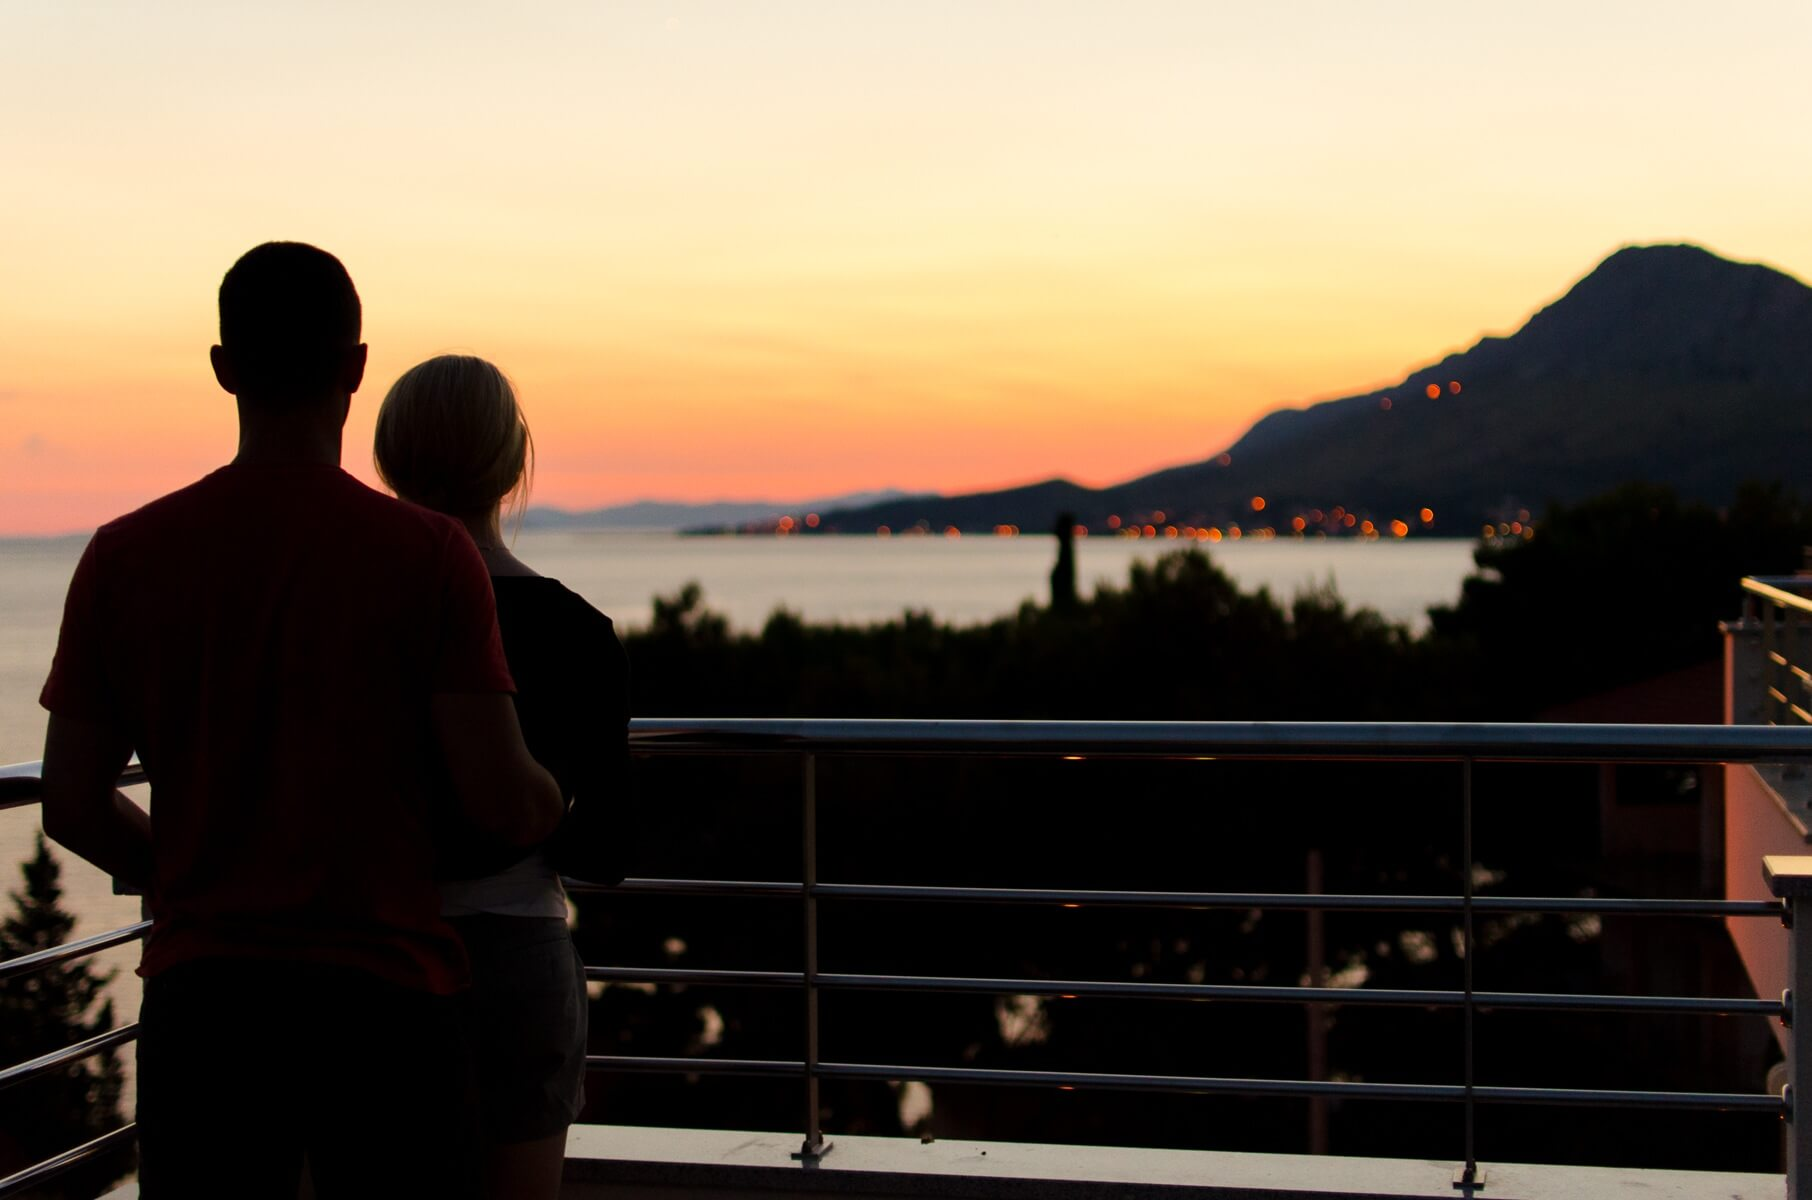
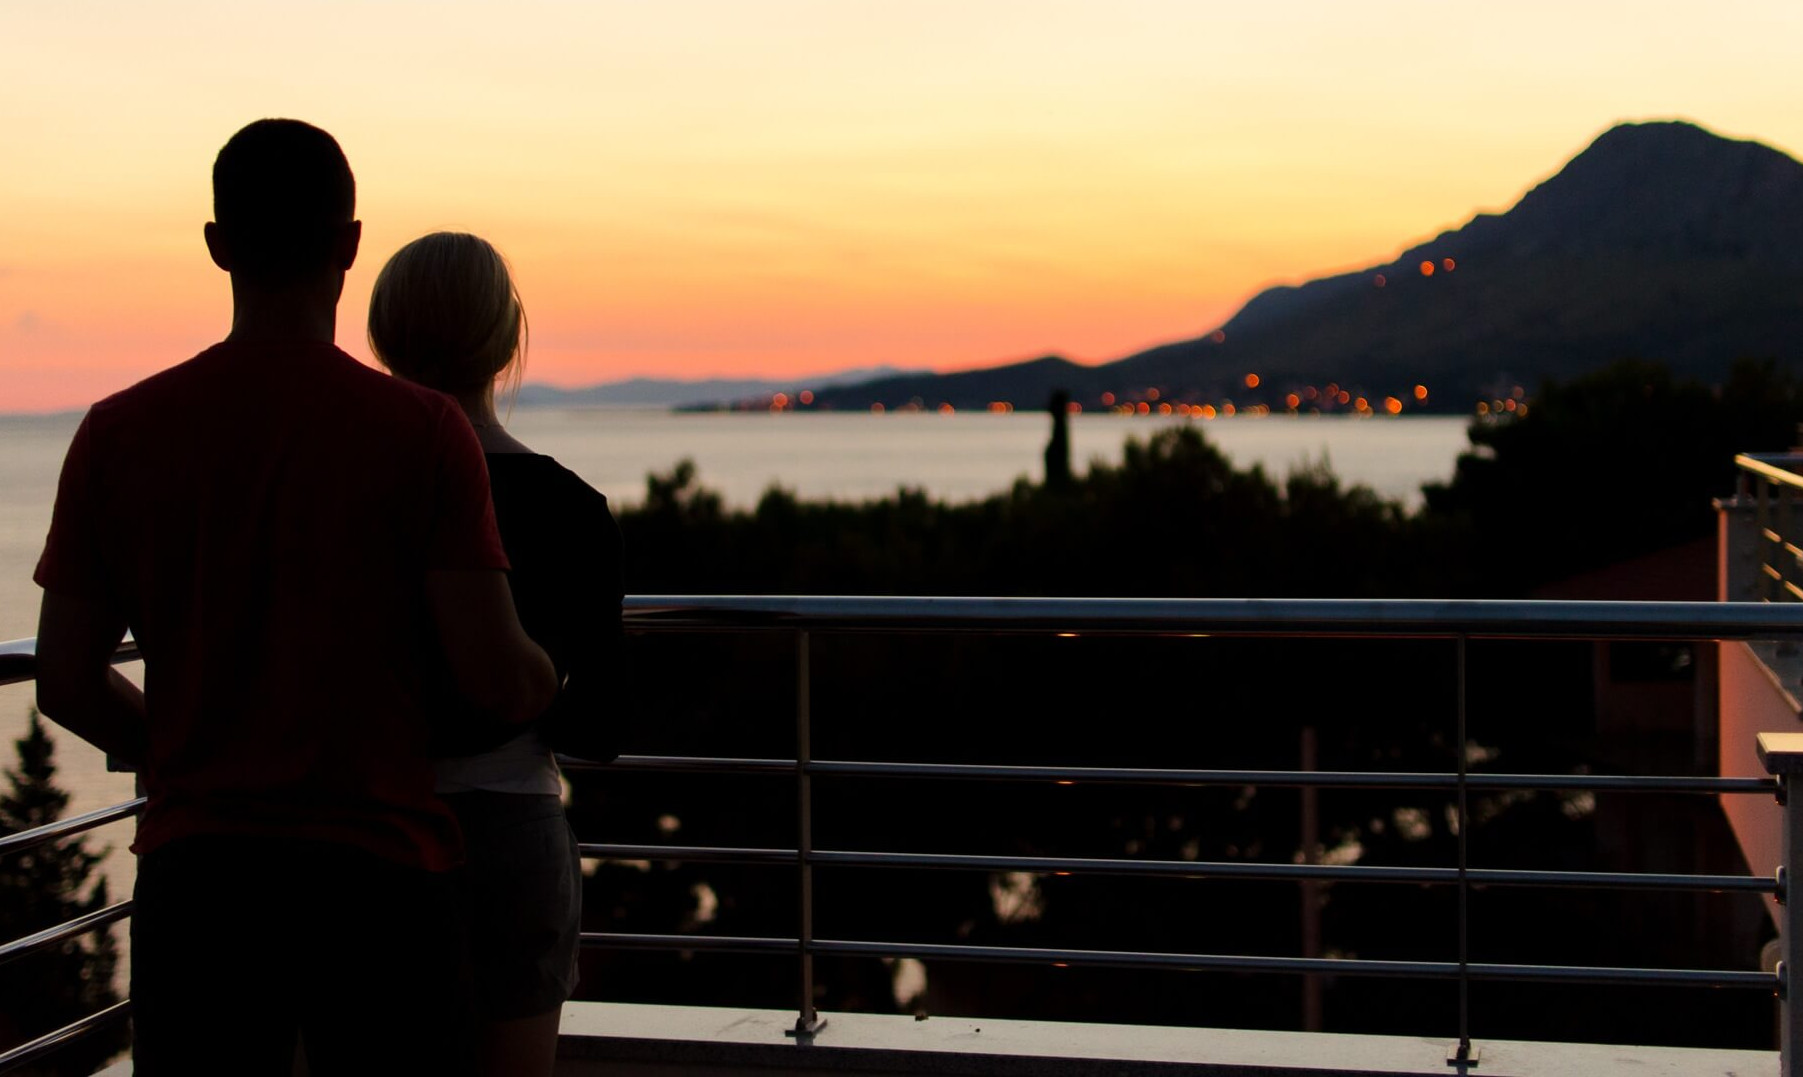
miscellaneous homepage styling

diff --git a/public/stylesheets/mystyles.css b/public/stylesheets/mystyles.css
@@ -157,24 +157,25 @@ input[type=radio]{
 section{
 	max-width: 100%;
 	width: 100%;
-	min-height: 850px;
+	min-height: 700px;
 }
 
 /********************Section #home********************/
 #home{
-	background-image: url('/assets/homebg-bc6eb6bf6fb044283cfe5e3a2aff41f3a011da2d5ec4af93c3b46fc602e3a50a.jpg');
+	background-image: url('/assets/homebg.jpg');
 	background-size: cover;
 	background-position: center;
 	background-repeat: no-repeat;
 	position: relative;
 	z-index: 1;
+	height: 700px;
 }
 
 .signup{
 	background-color: rgba(255,255,255,0.3);
-	height: 60%;
+	height: 70%;
 	position: absolute;
-  	top: 50%;
+  	top: 40%;
   	transform: translateY(-50%);
 }
 
@@ -352,7 +353,7 @@ form{
 	background-repeat: no-repeat;
 	position: relative;
 	color: #fff;
-
+	height: 600px !important;
 }
 
 .rule{

diff --git a/config/initializers/assets.rb b/config/initializers/assets.rb
@@ -9,4 +9,4 @@ Rails.application.config.assets.version = '1.0'
 # Precompile additional assets.
 # application.js, application.css, and all non-JS/CSS in app/assets folder are already added.
 # Rails.application.config.assets.precompile += %w( search.js )
-Rails.application.config.assets.precompile += %w( register.png, profilebg.png, match.png, homebg.png, heartpen.png, feet.png, darklock.png, completebg.png, browse.png, avatar.png, avatarph.png, camplaceholder.png )
+Rails.application.config.assets.precompile += %w( register.png, profilebg.png, match.png, homebg.jpg, heartpen.png, feet.png, darklock.png, completebg.png, browse.png, avatar.png, avatarph.png, camplaceholder.png )
